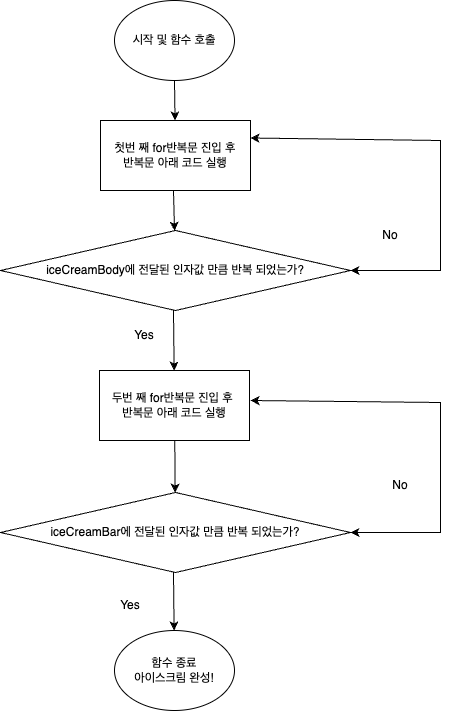
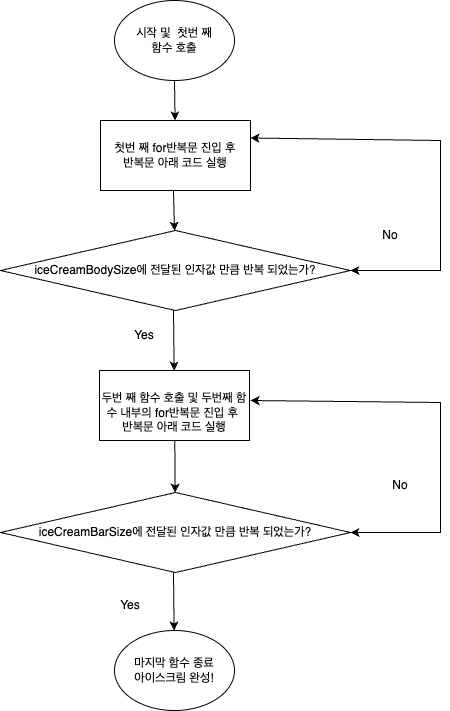
피드백업데이트2

diff --git a/CodeStarterCamp_Week1/main.swift b/CodeStarterCamp_Week1/main.swift
@@ -1,13 +1,17 @@
 import Foundation
 
-func makeIceCream(iceCreamBody: Int, iceCreamBar: Int) {
-    for _ in 1...iceCreamBody {
+func makeIceCreamBody(iceCreamBodySize: Int) {
+    for _ in 1...iceCreamBodySize {
         print("***********")
     }
-    for _ in 1...iceCreamBar {
+}
+
+func makeIceCreamBar(iceCreamBarSize: Int){
+    for _ in 1...iceCreamBarSize {
         print("    | |")
     }
 }
 
-makeIceCream(iceCreamBody: 8, iceCreamBar: 4)
+makeIceCreamBody(iceCreamBodySize: 20)
+makeIceCreamBar(iceCreamBarSize: 5 )
 
